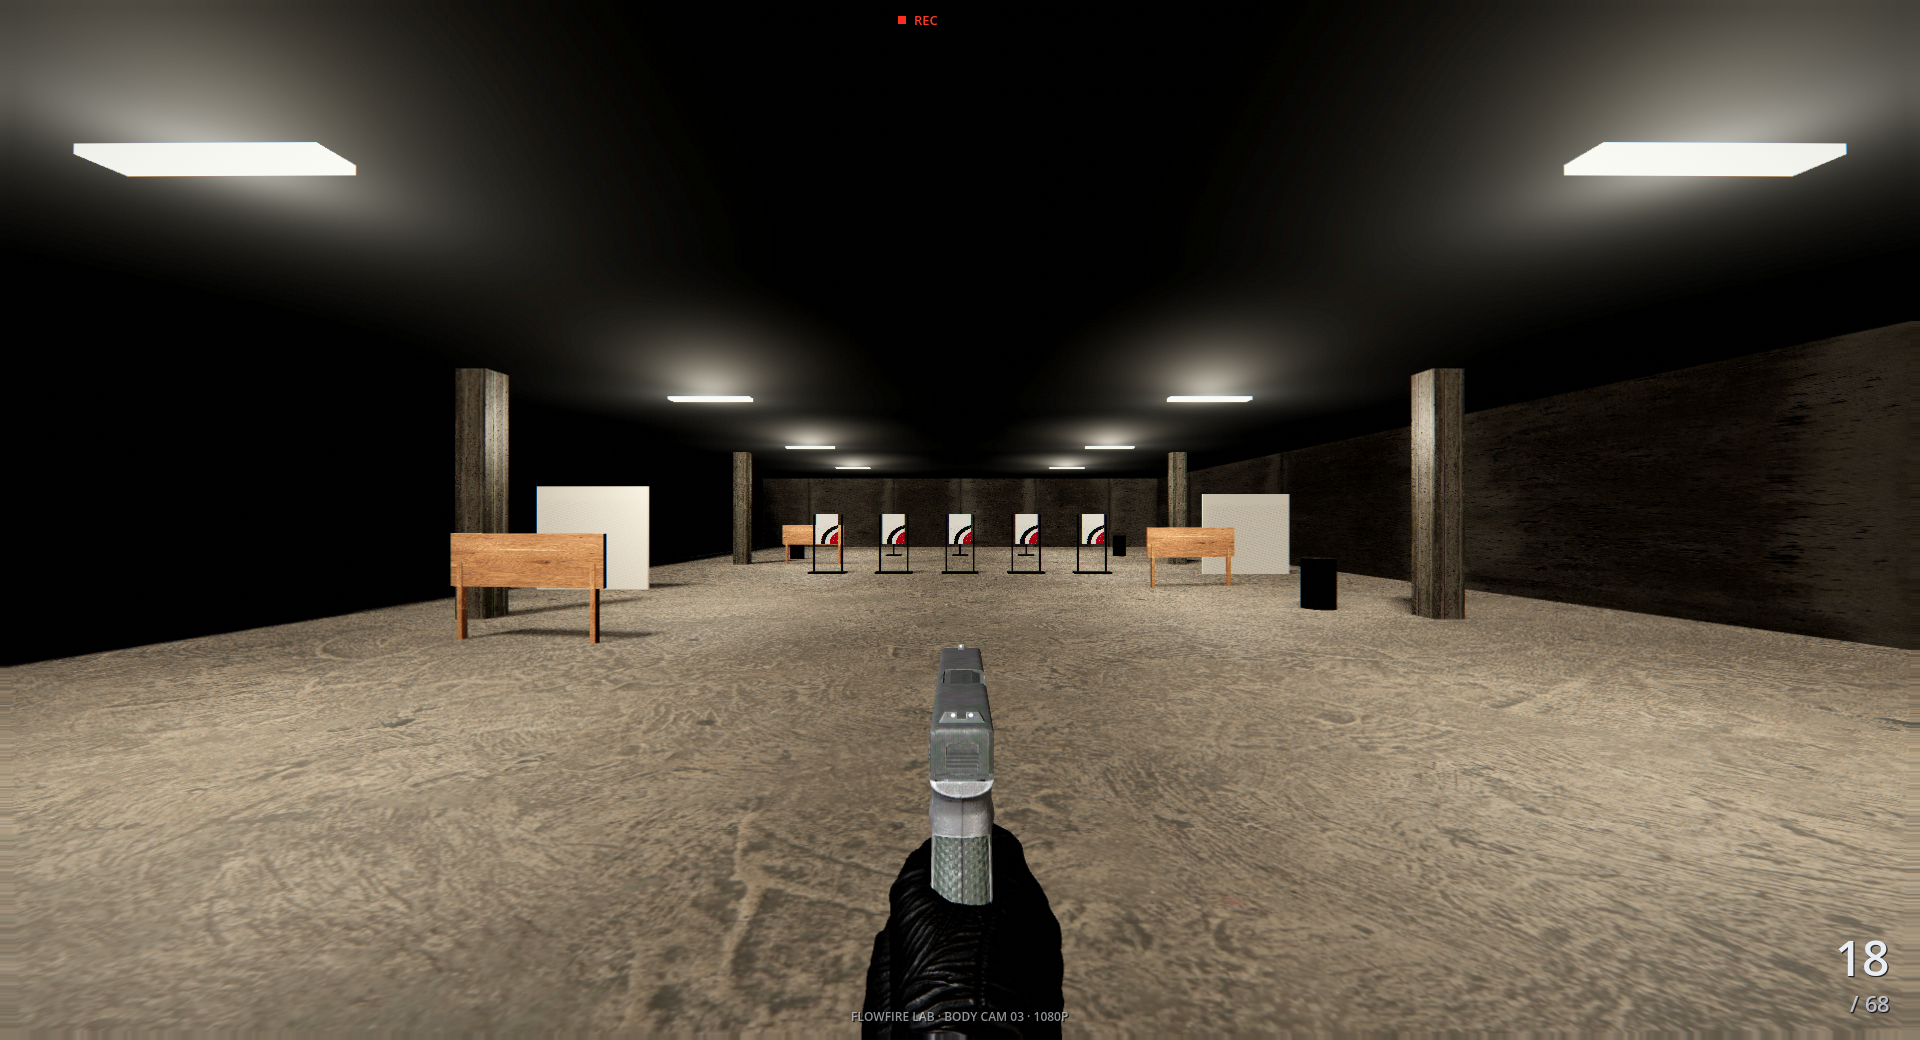
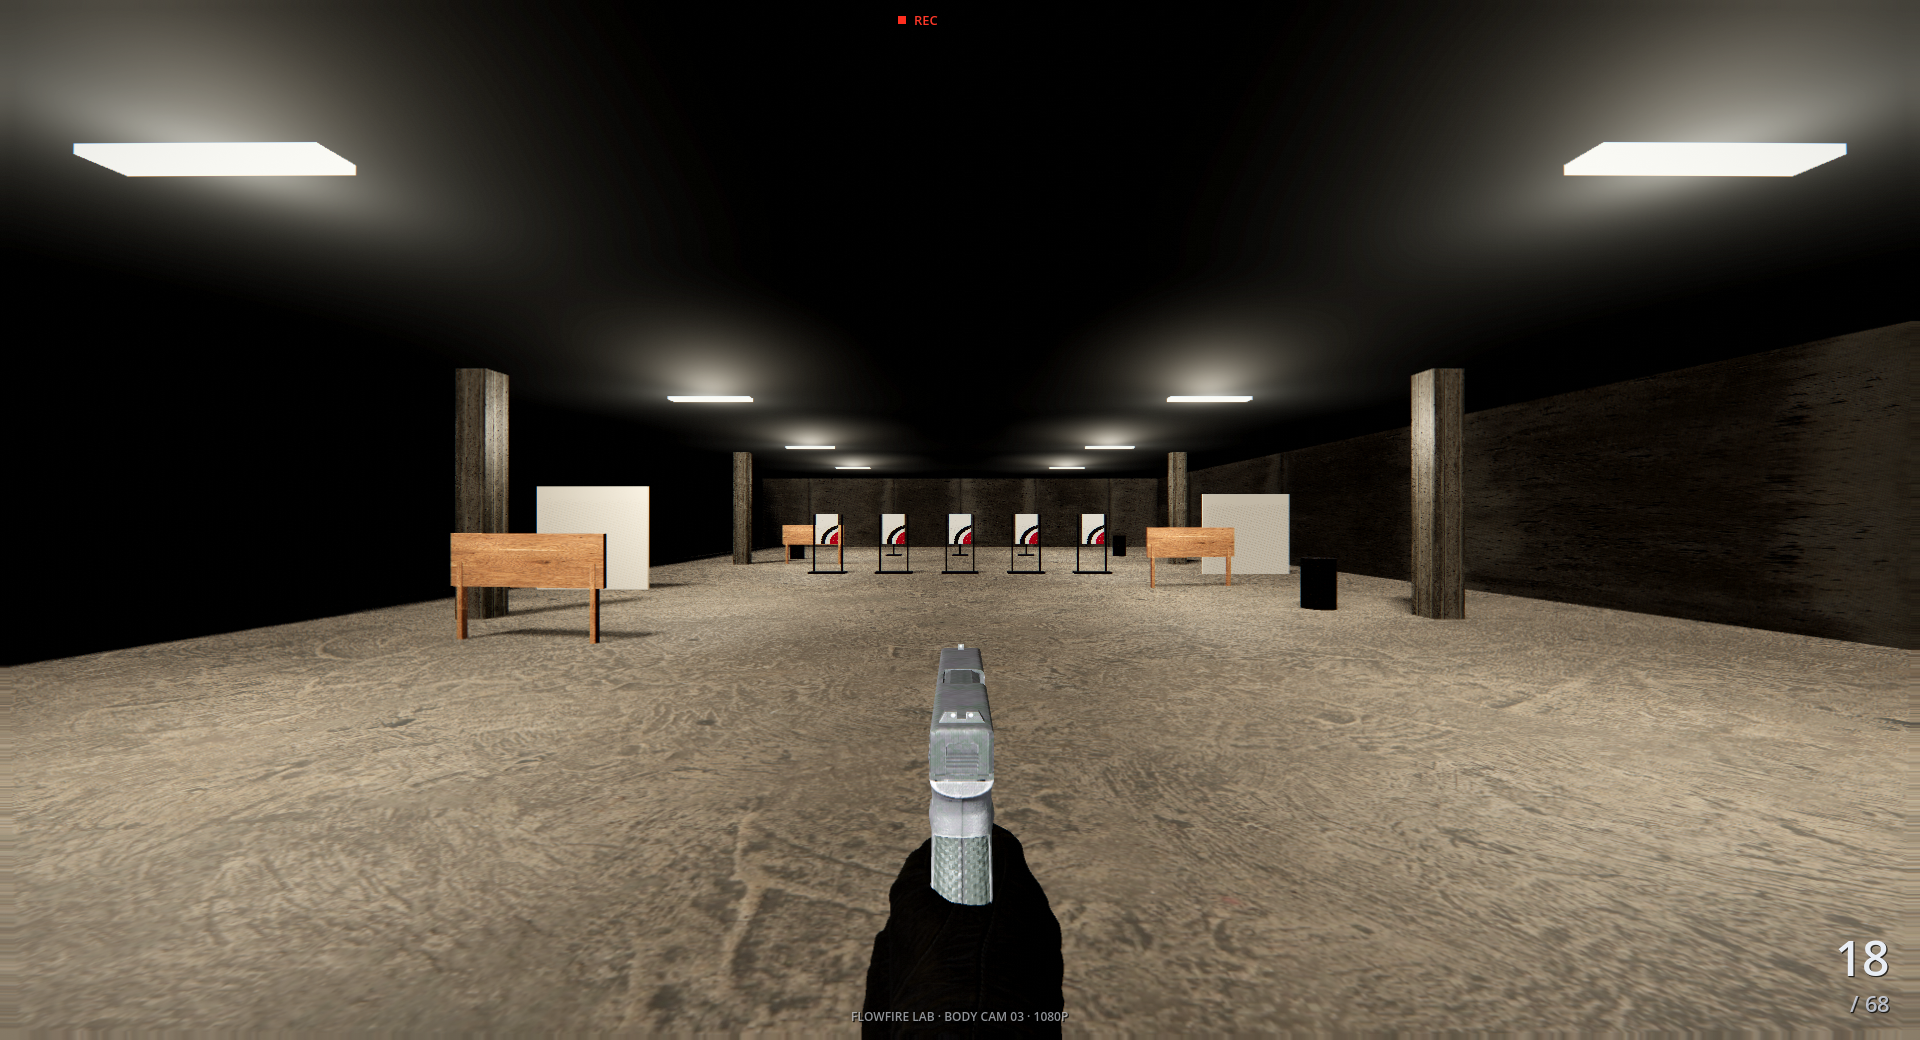
POLISH: calibra viewmodel, mecánica e impactos

Changed region(s): [[0.4688, 0.6462, 0.5312, 1.0]]

diff --git a/README.md b/README.md
@@ -157,6 +157,9 @@ godot4 --headless --path . -- --aimtest
 # Penetración + daño + decals
 godot4 --headless --path . -- --pentest
 
+# Salida por segunda cara de la geometría (madera + pladur)
+godot4 --headless --path . -- --penetrationdiag
+
 # Recarga vacía y táctica
 godot4 --headless --path . -- --reloadtest
 ```
